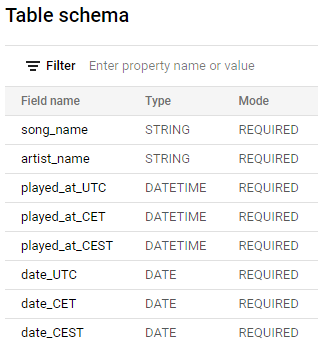
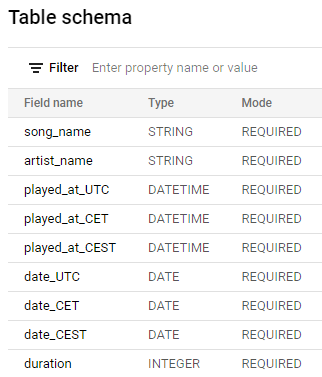
Add column duration

diff --git a/main.py b/main.py
@@ -39,6 +39,7 @@ def get_data(data, context):
     date_UTC = []
     date_CET = []
     date_CEST = []
+    duration = []
     # Yes, I hate timezones, how did you know?
 
     for song in recent["items"]:
@@ -58,6 +59,8 @@ def get_data(data, context):
         date_CET.append(CET_time.strftime('%Y-%m-%d'))
         date_CEST.append(CEST_time.strftime('%Y-%m-%d'))
 
+        duration.append(song["track"]["duration_ms"])
+
     song_dict = {
         "song_name": song_names,
         "artist_name": artist_names,
@@ -67,6 +70,7 @@ def get_data(data, context):
         "date_UTC": date_UTC,
         "date_CET": date_CET,
         "date_CEST": date_CEST,
+        "duration": duration
     }
 
     recent_df = pd.DataFrame(song_dict)
@@ -90,7 +94,8 @@ def get_data(data, context):
             bigquery.SchemaField("played_at_CEST", "DATETIME", mode="REQUIRED"),
             bigquery.SchemaField("date_UTC", "DATE", mode="REQUIRED"),
             bigquery.SchemaField("date_CET", "DATE", mode="REQUIRED"),
-            bigquery.SchemaField("date_CEST", "DATE", mode="REQUIRED")
+            bigquery.SchemaField("date_CEST", "DATE", mode="REQUIRED"),
+            bigquery.SchemaField("duration", "INTEGER", mode="REQUIRED")
         ],
         write_disposition="WRITE_APPEND"
     )
